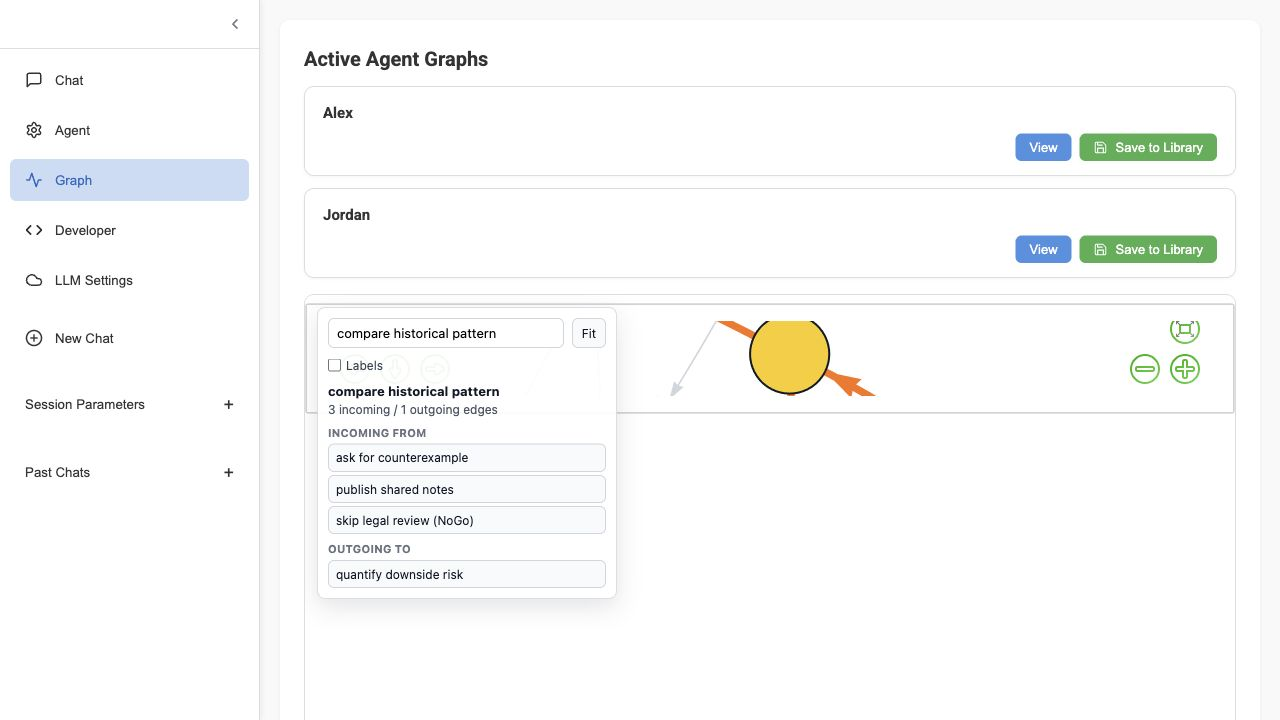
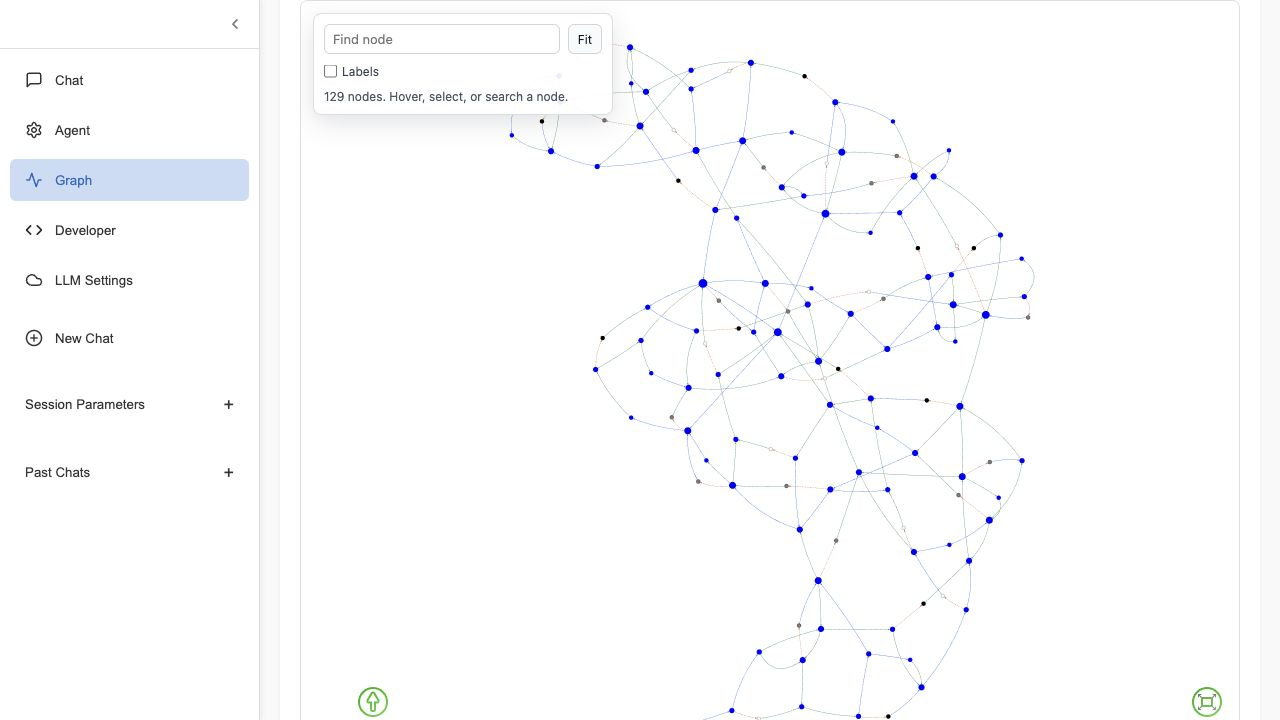
expand graph visualization viewport

diff --git a/src/components/GraphLibrary.js b/src/components/GraphLibrary.js
@@ -24,6 +24,7 @@ const GraphLibrary = () => {
   const [saveNameInput, setSaveNameInput] = useState('');
   const [savingAgentId, setSavingAgentId] = useState(null);
   const iframeRef = useRef(null);
+  const graphDisplayRef = useRef(null);
 
   useEffect(() => {
     loadAllGraphs();
@@ -42,11 +43,18 @@ const GraphLibrary = () => {
     }
   };
 
+  const scrollGraphIntoView = () => {
+    requestAnimationFrame(() => {
+      graphDisplayRef.current?.scrollIntoView({ behavior: 'smooth', block: 'start' });
+    });
+  };
+
   const handleVisualize = async (agentId) => {
     setLoading(true);
     try {
       const graphData = await visualizeGraph(agentId);
       setGraphUrl(graphData.graph_html);
+      scrollGraphIntoView();
     } catch (error) {
       console.error('Error visualizing graph:', error);
     } finally {
@@ -61,6 +69,7 @@ const GraphLibrary = () => {
       const response = await fetch(`/api/saved_graphs/${graphId}/visualize`);
       const data = await response.json();
       setGraphUrl(data.graph_html);
+      scrollGraphIntoView();
     } catch (error) {
       console.error('Error visualizing saved graph:', error);
     } finally {
@@ -133,53 +142,12 @@ const GraphLibrary = () => {
 
   return (
     <div className="graph-view-container">
-      {/* Section 1: Active Agent Graphs */}
-      <div className="graph-header">
-        <h2>Active Agent Graphs</h2>
-      </div>
-
-      <div className="agent-library-list">
-        {activeAgentGraphs.length === 0 && (
-          <p style={{ color: '#888', fontStyle: 'italic' }}>No active agent graphs.</p>
-        )}
-        {activeAgentGraphs.map((agent) => (
-          <div key={agent.id} className="agent-preset-card">
-            <div className="preset-card-header">
-              <strong>{agent.name}</strong>
-              <span style={{ color: '#888', fontSize: '0.85em', marginLeft: '8px' }}>
-                {agent.node_count != null ? `${agent.node_count} nodes` : ''}
-              </span>
-            </div>
-            <div className="buttons-row" style={{ justifyContent: 'flex-end' }}>
-              <button className="save-button" onClick={() => handleVisualize(agent.id)}>
-                View
-              </button>
-              <button className="add-button" onClick={() => handleSaveFromAgent(agent.id)}>
-                <Save size={14} />
-                <span>{savingAgentId === agent.id ? 'Confirm' : 'Save to Library'}</span>
-              </button>
-            </div>
-            {savingAgentId === agent.id && (
-              <div className="setting-group" style={{ marginTop: '8px' }}>
-                <input
-                  type="text"
-                  value={saveNameInput}
-                  onChange={(e) => setSaveNameInput(e.target.value)}
-                  placeholder="Graph name"
-                  onKeyDown={(e) => {
-                    if (e.key === 'Enter') handleSaveFromAgent(agent.id);
-                    if (e.key === 'Escape') { setSavingAgentId(null); setSaveNameInput(''); }
-                  }}
-                  autoFocus
-                />
-              </div>
-            )}
-          </div>
-        ))}
-      </div>
-
       {/* Graph visualization */}
-      <div className="graph-display">
+      <div className="graph-header">
+        <h2>Graph Visualization</h2>
+      </div>
+
+      <div className="graph-display" ref={graphDisplayRef}>
         {loading && (
           <div className="loading-indicator">
             <div className="spinner"></div>
@@ -228,6 +196,51 @@ const GraphLibrary = () => {
             </div>
           </div>
         )}
+      </div>
+
+      {/* Section 1: Active Agent Graphs */}
+      <div className="graph-header">
+        <h2>Active Agent Graphs</h2>
+      </div>
+
+      <div className="agent-library-list">
+        {activeAgentGraphs.length === 0 && (
+          <p style={{ color: '#888', fontStyle: 'italic' }}>No active agent graphs.</p>
+        )}
+        {activeAgentGraphs.map((agent) => (
+          <div key={agent.id} className="agent-preset-card">
+            <div className="preset-card-header">
+              <strong>{agent.name}</strong>
+              <span style={{ color: '#888', fontSize: '0.85em', marginLeft: '8px' }}>
+                {agent.node_count != null ? `${agent.node_count} nodes` : ''}
+              </span>
+            </div>
+            <div className="buttons-row" style={{ justifyContent: 'flex-end' }}>
+              <button className="save-button" onClick={() => handleVisualize(agent.id)}>
+                View
+              </button>
+              <button className="add-button" onClick={() => handleSaveFromAgent(agent.id)}>
+                <Save size={14} />
+                <span>{savingAgentId === agent.id ? 'Confirm' : 'Save to Library'}</span>
+              </button>
+            </div>
+            {savingAgentId === agent.id && (
+              <div className="setting-group" style={{ marginTop: '8px' }}>
+                <input
+                  type="text"
+                  value={saveNameInput}
+                  onChange={(e) => setSaveNameInput(e.target.value)}
+                  placeholder="Graph name"
+                  onKeyDown={(e) => {
+                    if (e.key === 'Enter') handleSaveFromAgent(agent.id);
+                    if (e.key === 'Escape') { setSavingAgentId(null); setSaveNameInput(''); }
+                  }}
+                  autoFocus
+                />
+              </div>
+            )}
+          </div>
+        ))}
       </div>
 
       {/* Section 2: Saved Graphs */}

diff --git a/src/static/main.css b/src/static/main.css
@@ -741,11 +741,11 @@ body, html {
 
 /* Graph View */
 .graph-view-container {
-  max-width: 1280px;
+  max-width: 1440px;
   margin: 0 auto 20px;
-  padding: 24px 24px 40px;
+  padding: 16px 20px 40px;
   background-color: white;
-  border-radius: 10px;
+  border-radius: 8px;
   box-shadow: 0 1px 4px rgba(0, 0, 0, 0.06);
 }
 
@@ -765,15 +765,16 @@ body, html {
 .graph-display {
   position: relative;
   border: 1px solid var(--border-color);
-  border-radius: 10px;
+  border-radius: 8px;
   overflow: hidden;
   background-color: #fafafa;
   margin-top: 12px;
+  margin-bottom: 24px;
   box-shadow: inset 0 1px 3px rgba(0, 0, 0, 0.06);
 }
 
 .graph-display:has(.graph-iframe) {
-  min-height: 620px;
+  min-height: 760px;
 }
 
 .graph-display:has(.no-graph-message) {
@@ -813,8 +814,8 @@ body, html {
 }
 
 .graph-iframe-container:has(.graph-iframe) {
-  height: min(72vh, 760px);
-  min-height: 620px;
+  height: clamp(760px, calc(100vh - 150px), 980px);
+  min-height: 760px;
 }
 
 .graph-iframe {

diff --git a/src/styles/main.css b/src/styles/main.css
@@ -741,11 +741,11 @@ body, html {
 
 /* Graph View */
 .graph-view-container {
-  max-width: 1280px;
+  max-width: 1440px;
   margin: 0 auto 20px;
-  padding: 24px 24px 40px;
+  padding: 16px 20px 40px;
   background-color: white;
-  border-radius: 10px;
+  border-radius: 8px;
   box-shadow: 0 1px 4px rgba(0, 0, 0, 0.06);
 }
 
@@ -765,15 +765,16 @@ body, html {
 .graph-display {
   position: relative;
   border: 1px solid var(--border-color);
-  border-radius: 10px;
+  border-radius: 8px;
   overflow: hidden;
   background-color: #fafafa;
   margin-top: 12px;
+  margin-bottom: 24px;
   box-shadow: inset 0 1px 3px rgba(0, 0, 0, 0.06);
 }
 
 .graph-display:has(.graph-iframe) {
-  min-height: 620px;
+  min-height: 760px;
 }
 
 .graph-display:has(.no-graph-message) {
@@ -813,8 +814,8 @@ body, html {
 }
 
 .graph-iframe-container:has(.graph-iframe) {
-  height: min(72vh, 760px);
-  min-height: 620px;
+  height: clamp(760px, calc(100vh - 150px), 980px);
+  min-height: 760px;
 }
 
 .graph-iframe {

diff --git a/src/app.py b/src/app.py
@@ -152,11 +152,37 @@ def graph_node_label(node, data=None):
 
 def inject_graph_explorer(html_path, node_count):
     """Add lightweight search, fit, and zoom-aware labels to the PyVis HTML."""
-    explorer = f"""
+    layout_css = f"""
 <style>
   html, body, #mynetwork {{
+    width: 100%;
     height: 100%;
     margin: 0;
+  }}
+  html, body {{
+    min-height: 100%;
+    overflow: hidden;
+  }}
+  body > .card {{
+    width: 100% !important;
+    height: 100vh !important;
+    min-height: 720px;
+    border: 0 !important;
+    border-radius: 0 !important;
+  }}
+  #mynetwork {{
+    height: 100vh !important;
+    min-height: 720px;
+    padding: 0 !important;
+    float: none !important;
+    border: 0 !important;
+  }}
+  #mynetwork .vis-network,
+  #mynetwork canvas {{
+    min-height: 720px;
+  }}
+  #mynetwork canvas {{
+    display: block;
   }}
   #goalgraph-explorer {{
     position: absolute;
@@ -239,6 +265,8 @@ def inject_graph_explorer(html_path, node_count):
     white-space: nowrap;
   }}
 </style>
+"""
+    explorer = f"""
 <div id="goalgraph-explorer">
   <div class="explorer-row">
     <input id="goalgraph-node-search" type="search" list="goalgraph-node-options" placeholder="Find node" autocomplete="off" />
@@ -276,6 +304,30 @@ def inject_graph_explorer(html_path, node_count):
   var labelById = {{}};
   var selectedNodeId = null;
   var hoverNodeId = null;
+  var resizeTimer = null;
+
+  function resizeNetwork() {{
+    var height = Math.max(window.innerHeight || 0, document.documentElement.clientHeight || 0, 720);
+    var heightPx = height + 'px';
+    var card = document.querySelector('body > .card');
+    var networkElement = document.getElementById('mynetwork');
+    document.documentElement.style.height = '100%';
+    document.body.style.height = '100%';
+    if (card) card.style.height = heightPx;
+    if (networkElement) networkElement.style.height = heightPx;
+    network.setSize('100%', heightPx);
+    network.redraw();
+  }}
+
+  resizeNetwork();
+  window.addEventListener('resize', function () {{
+    window.clearTimeout(resizeTimer);
+    resizeTimer = window.setTimeout(function () {{
+      resizeNetwork();
+      network.fit({{ animation: false }});
+      updateLabels();
+    }}, 80);
+  }});
 
   originalNodes.forEach(function (node) {{
     labelById[node.id] = node.fullLabel;
@@ -477,18 +529,25 @@ def inject_graph_explorer(html_path, node_count):
     zoomTimer = window.setTimeout(updateLabels, 60);
   }});
   network.once('stabilized', function () {{
+    resizeNetwork();
     updateLabels();
     network.fit({{ animation: false }});
   }});
   window.setTimeout(function () {{
+    resizeNetwork();
     updateLabels();
     network.fit({{ animation: false }});
   }}, 500);
+  window.setTimeout(function () {{
+    resizeNetwork();
+    network.fit({{ animation: false }});
+  }}, 1200);
 }}());
 </script>
 """
     with open(html_path, 'r', encoding='utf-8') as f:
         contents = f.read()
+    contents = contents.replace('</head>', layout_css + '\n</head>')
     contents = contents.replace('</body>', explorer + '\n</body>')
     with open(html_path, 'w', encoding='utf-8') as f:
         f.write(contents)

diff --git a/README.md b/README.md
@@ -14,7 +14,7 @@ These screenshots are generated from the current web app UI.
 ![Chat Interface](screenshots/chat_interface.png)
 
 ### Graph Visualization
-Detailed 129-node aim workspace in the actual GoalGraph UI, with one node highlighted and its connected nodes available for path-following.
+Detailed 129-node aim workspace in the actual GoalGraph UI, with the expanded graph viewport and explorer controls for search, labels, and path-following.
 ![Graph Visualization](screenshots/detailed_graph_explorer.png)
 
 ### Rapid Graph Run UI